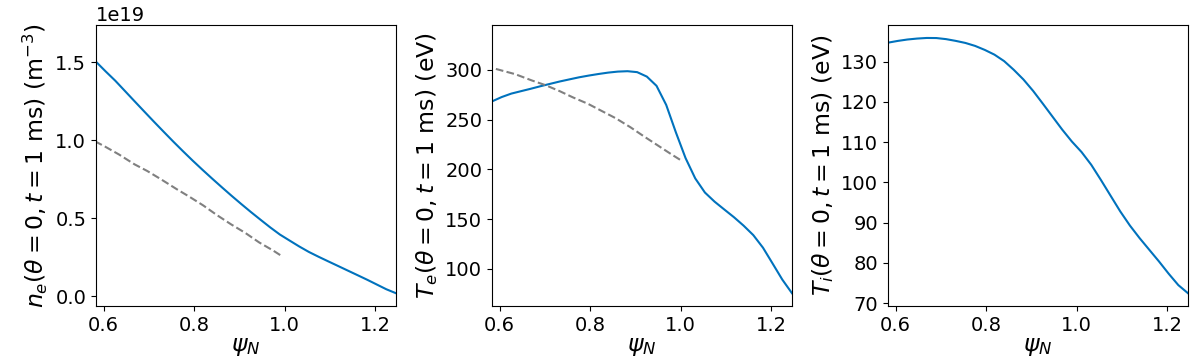
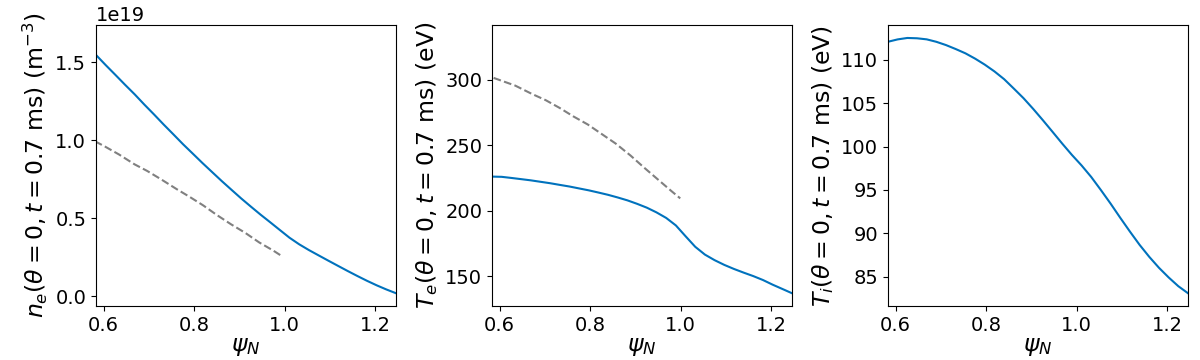
Update final den_temp_z2mid plot

diff --git a/gkeyll/postprocess_gkeyll_ltx_2x.py b/gkeyll/postprocess_gkeyll_ltx_2x.py
@@ -22,10 +22,10 @@ import ltx_common_util as lcu
 #[ Plotting options.
 plot_grid_RZ          = False  #[ Grid on RZ plane.
 plot_vs_x             = False  #[ A quantity at the outboard midplane.
-plot_nT_vs_x          = False  #[ Sensity and temperature profiles vs. x.
+plot_nT_vs_x          = True  #[ Sensity and temperature profiles vs. x.
 plot_src_mom_vs_x     = False  #[ Source moments vs. x.
 plot_src_int_mom_vs_t = False  #[ Source integrated moments vs. t.
-plot_vs_RZ            = True  #[ A quantity at the R-Z midplane.
+plot_vs_RZ            = False  #[ A quantity at the R-Z midplane.
 plot_nT_vs_x_multisim = False  #[ Density and temperature profiles vs. x for multiple sims.
 plot_nu_RZ            = False  #[ Collision frequency on RZ plane.
 plot_nu_vs_x          = False  #[ Collision frequency vs. x.
